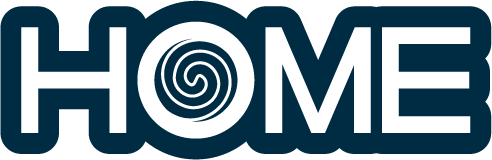
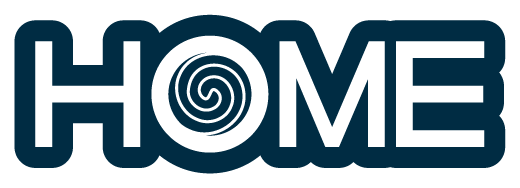
feat: 🌀 로고·HOME에 흰 키라인+글로우 — 어두운 헤더에서 밝게 뜬다

diff --git a/play/pastlife.html b/play/pastlife.html
@@ -8,7 +8,7 @@
   <link rel="preconnect" href="https://fonts.googleapis.com" />
   <link rel="preconnect" href="https://fonts.gstatic.com" crossorigin />
   <link href="https://fonts.googleapis.com/css2?family=Jua&display=swap" rel="stylesheet" />
-  <link rel="stylesheet" href="../css/style.css?v=cl5" />
+  <link rel="stylesheet" href="../css/style.css?v=cl6" />
   <style>
     .life-card { background: var(--surface); border: 2px solid var(--line); border-radius: 16px; padding: 16px 18px; margin-bottom: 14px; }
     .life-era { display: inline-block; background: var(--cream); border-radius: 999px; padding: 4px 12px; font-size: 0.82rem; color: var(--ink-soft); margin-bottom: 8px; }
@@ -74,7 +74,7 @@
     <p class="fine-print">업보는 셀프</p>
   </main>
   <div id="site-footer"></div>
-  <script src="../js/common.js?v=21" data-root=".."></script>
+  <script src="../js/common.js?v=22" data-root=".."></script>
   <script src="js/saju.js"></script>
   <script src="js/dosa.js?v=2"></script>
   <script src="js/feed.js?v=10"></script>

diff --git a/play/foodtype.html b/play/foodtype.html
@@ -8,7 +8,7 @@
   <link rel="preconnect" href="https://fonts.googleapis.com" />
   <link rel="preconnect" href="https://fonts.gstatic.com" crossorigin />
   <link href="https://fonts.googleapis.com/css2?family=Jua&display=swap" rel="stylesheet" />
-  <link rel="stylesheet" href="../css/style.css?v=cl5" />
+  <link rel="stylesheet" href="../css/style.css?v=cl6" />
   <style>
     .tags { display: flex; flex-wrap: wrap; gap: 8px; justify-content: center; margin: 14px 0 4px; }
     .tag { background: var(--cream); border: 1.5px solid var(--line); border-radius: 999px; padding: 5px 12px; font-size: 0.9rem; color: var(--ink-soft); }
@@ -21,7 +21,7 @@
     <section class="panel"><div id="quiz"></div></section>
   </main>
   <div id="site-footer"></div>
-  <script src="../js/common.js?v=21" data-root=".."></script>
+  <script src="../js/common.js?v=22" data-root=".."></script>
   <script src="js/feed.js?v=10"></script>
   <script src="js/quiz.js?v=4"></script>
   <script src="js/sharecard.js"></script>

diff --git a/play/love-test.html b/play/love-test.html
@@ -8,7 +8,7 @@
   <link rel="preconnect" href="https://fonts.googleapis.com" />
   <link rel="preconnect" href="https://fonts.gstatic.com" crossorigin />
   <link href="https://fonts.googleapis.com/css2?family=Jua&display=swap" rel="stylesheet" />
-  <link rel="stylesheet" href="../css/style.css?v=cl5" />
+  <link rel="stylesheet" href="../css/style.css?v=cl6" />
   <style>
     .tags { display: flex; flex-wrap: wrap; gap: 8px; justify-content: center; margin: 14px 0 4px; }
     .tag { background: var(--cream); border: 1.5px solid var(--line); border-radius: 999px; padding: 5px 12px; font-size: 0.9rem; color: var(--ink-soft); }
@@ -21,7 +21,7 @@
     <section class="panel"><div id="quiz"></div></section>
   </main>
   <div id="site-footer"></div>
-  <script src="../js/common.js?v=21" data-root=".."></script>
+  <script src="../js/common.js?v=22" data-root=".."></script>
   <script src="js/feed.js?v=10"></script>
   <script src="js/quiz.js?v=4"></script>
   <script src="js/sharecard.js"></script>

diff --git a/play/zombie.html b/play/zombie.html
@@ -8,7 +8,7 @@
   <link rel="preconnect" href="https://fonts.googleapis.com" />
   <link rel="preconnect" href="https://fonts.gstatic.com" crossorigin />
   <link href="https://fonts.googleapis.com/css2?family=Jua&display=swap" rel="stylesheet" />
-  <link rel="stylesheet" href="../css/style.css?v=cl5" />
+  <link rel="stylesheet" href="../css/style.css?v=cl6" />
   <style>
     .tags { display: flex; flex-wrap: wrap; gap: 8px; justify-content: center; margin: 14px 0 4px; }
     .tag { background: var(--cream); border: 1.5px solid var(--line); border-radius: 999px; padding: 5px 12px; font-size: 0.9rem; color: var(--ink-soft); }
@@ -21,7 +21,7 @@
     <section class="panel"><div id="quiz"></div></section>
   </main>
   <div id="site-footer"></div>
-  <script src="../js/common.js?v=21" data-root=".."></script>
+  <script src="../js/common.js?v=22" data-root=".."></script>
   <script src="js/feed.js?v=10"></script>
   <script src="js/quiz.js?v=4"></script>
   <script src="js/sharecard.js"></script>

diff --git a/play/chatroom.html b/play/chatroom.html
@@ -8,7 +8,7 @@
   <link rel="preconnect" href="https://fonts.googleapis.com" />
   <link rel="preconnect" href="https://fonts.gstatic.com" crossorigin />
   <link href="https://fonts.googleapis.com/css2?family=Jua&display=swap" rel="stylesheet" />
-  <link rel="stylesheet" href="../css/style.css?v=cl5" />
+  <link rel="stylesheet" href="../css/style.css?v=cl6" />
   <style>
     .tags { display: flex; flex-wrap: wrap; gap: 8px; justify-content: center; margin: 14px 0 4px; }
     .tag { background: var(--cream); border: 1.5px solid #e8e2d4; border-radius: 999px; padding: 5px 12px; font-size: 0.9rem; color: var(--ink-soft); }
@@ -21,7 +21,7 @@
     <section class="panel"><div id="quiz"></div></section>
   </main>
   <div id="site-footer"></div>
-  <script src="../js/common.js?v=21" data-root=".."></script>
+  <script src="../js/common.js?v=22" data-root=".."></script>
   <script src="js/feed.js?v=10"></script>
   <script src="js/quiz.js?v=4"></script>
   <script src="js/sharecard.js"></script>

diff --git a/play/profile-card.html b/play/profile-card.html
@@ -8,7 +8,7 @@
   <link rel="preconnect" href="https://fonts.googleapis.com" />
   <link rel="preconnect" href="https://fonts.gstatic.com" crossorigin />
   <link href="https://fonts.googleapis.com/css2?family=Jua&display=swap" rel="stylesheet" />
-  <link rel="stylesheet" href="../css/style.css?v=cl5" />
+  <link rel="stylesheet" href="../css/style.css?v=cl6" />
   <style>
     .nick-row { display: flex; gap: 8px; justify-content: center; margin-bottom: 14px; }
     .nick-row input { font-family: inherit; font-size: 1rem; padding: 9px 14px; border: 2px solid var(--line); border-radius: 12px; width: 200px; text-align: center; }
@@ -58,7 +58,7 @@
     <p class="fine-print">결과는 이 브라우저에만 저장돼요</p>
   </main>
   <div id="site-footer"></div>
-  <script src="../js/common.js?v=21" data-root=".."></script>
+  <script src="../js/common.js?v=22" data-root=".."></script>
   <script src="js/feed.js?v=10"></script>
   <script src="js/saju.js"></script>
   <script>

diff --git a/play/naming.html b/play/naming.html
@@ -8,7 +8,7 @@
   <link rel="preconnect" href="https://fonts.googleapis.com" />
   <link rel="preconnect" href="https://fonts.gstatic.com" crossorigin />
   <link href="https://fonts.googleapis.com/css2?family=Jua&display=swap" rel="stylesheet" />
-  <link rel="stylesheet" href="../css/style.css?v=cl5" />
+  <link rel="stylesheet" href="../css/style.css?v=cl6" />
   <style>
     .cat-grid { display: grid; grid-template-columns: 1fr 1fr; gap: 10px; margin-bottom: 14px; }
     .cat-tile { background: var(--cream); border: 2px solid transparent; border-radius: 14px;
@@ -43,7 +43,7 @@
     <p class="fine-print">이름은 참고용이에요 — 마음에 드는 걸 골라 쓰세요 🙂</p>
   </main>
   <div id="site-footer"></div>
-  <script src="../js/common.js?v=21" data-root=".."></script>
+  <script src="../js/common.js?v=22" data-root=".."></script>
   <script src="js/feed.js?v=10"></script>
   <script src="js/dosa.js?v=2"></script>
   <script>

diff --git a/play/mini.html b/play/mini.html
@@ -8,7 +8,7 @@
   <link rel="preconnect" href="https://fonts.googleapis.com" />
   <link rel="preconnect" href="https://fonts.gstatic.com" crossorigin />
   <link href="https://fonts.googleapis.com/css2?family=Jua&display=swap" rel="stylesheet" />
-  <link rel="stylesheet" href="../css/style.css?v=cl5" />
+  <link rel="stylesheet" href="../css/style.css?v=cl6" />
   <style>
     /* 남색 밤+황금 초승달+모래 땅 배경(홈과 가장 닮은 톤) — 뷰포트 고정 레이어 */
     body.clay { background: #1a2242 !important; }
@@ -161,7 +161,7 @@
     <p class="fine-print" style="margin-top:24px">가볍게 즐겨주세요 🙂</p>
   </main>
   <div id="site-footer"></div>
-  <script src="../js/common.js?v=21" data-root=".."></script>
+  <script src="../js/common.js?v=22" data-root=".."></script>
   <script src="js/hub-fan.js?v=2" data-root=".."></script>
   <script>
     // 행성 클릭 메뉴(홈과 동일) — 데스크톱 전용

diff --git a/play/goblub.html b/play/goblub.html
@@ -8,7 +8,7 @@
   <link rel="preconnect" href="https://fonts.googleapis.com" />
   <link rel="preconnect" href="https://fonts.gstatic.com" crossorigin />
   <link href="https://fonts.googleapis.com/css2?family=Jua&display=swap" rel="stylesheet" />
-  <link rel="stylesheet" href="../css/style.css?v=cl5" />
+  <link rel="stylesheet" href="../css/style.css?v=cl6" />
   <style>
     .pet { position: relative; text-align: center; margin: 6px 0 2px; transition: transform 0.25s; }
     .pet.nom { animation: nom 0.5s ease; }
@@ -88,7 +88,7 @@
     <p class="fine-print">고브럽은 이 브라우저에서 자라요 — 브라우저를 바꾸면 새 알을 만나게 됩니다 🥚</p>
   </main>
   <div id="site-footer"></div>
-  <script src="../js/common.js?v=21" data-root=".."></script>
+  <script src="../js/common.js?v=22" data-root=".."></script>
   <script src="js/feed.js?v=10"></script>
   <script src="js/goblub-art.js"></script>
   <script>

diff --git a/play/today.html b/play/today.html
@@ -8,7 +8,7 @@
   <link rel="preconnect" href="https://fonts.googleapis.com" />
   <link rel="preconnect" href="https://fonts.gstatic.com" crossorigin />
   <link href="https://fonts.googleapis.com/css2?family=Jua&family=Nanum+Myeongjo:wght@700;800&display=swap" rel="stylesheet" />
-  <link rel="stylesheet" href="../css/style.css?v=cl5" />
+  <link rel="stylesheet" href="../css/style.css?v=cl6" />
   <style>
     .profile-badge { display: flex; align-items: center; justify-content: space-between; gap: 10px; flex-wrap: wrap; }
     .profile-badge .who { font-size: 1.15rem; }
@@ -110,7 +110,7 @@
     <p class="fine-print" id="t-err"></p>
   </main>
   <div id="site-footer"></div>
-  <script src="../js/common.js?v=21" data-root=".."></script>
+  <script src="../js/common.js?v=22" data-root=".."></script>
   <script src="js/saju.js"></script>
   <script src="js/fortune.js"></script>
   <script src="js/profile.js"></script>

diff --git a/apps.html b/apps.html
@@ -8,7 +8,7 @@
   <link rel="preconnect" href="https://fonts.googleapis.com" />
   <link rel="preconnect" href="https://fonts.gstatic.com" crossorigin />
   <link href="https://fonts.googleapis.com/css2?family=Jua&display=swap" rel="stylesheet" />
-  <link rel="stylesheet" href="css/style.css?v=cl5" />
+  <link rel="stylesheet" href="css/style.css?v=cl6" />
   <style>
     /* 차콜 인디고+물의 행성+로즈핑크 땅 배경 — 뷰포트 고정 레이어 */
     body.clay { background: #1c2026 !important; }
@@ -173,7 +173,7 @@
 
   <div id="site-footer"></div>
   <script src="play/js/goblub-art.js"></script>
-  <script src="js/common.js?v=21" data-root="."></script>
+  <script src="js/common.js?v=22" data-root="."></script>
   <script src="play/js/hub-fan.js?v=2" data-root="."></script>
   <script>
     // 행성 클릭 메뉴(홈과 동일) — 데스크톱 전용. 앱 페이지에서는 홈/로그인으로

diff --git a/play/mini2.html b/play/mini2.html
@@ -8,7 +8,7 @@
   <link rel="preconnect" href="https://fonts.googleapis.com" />
   <link rel="preconnect" href="https://fonts.gstatic.com" crossorigin />
   <link href="https://fonts.googleapis.com/css2?family=Jua&display=swap" rel="stylesheet" />
-  <link rel="stylesheet" href="../css/style.css?v=cl5" />
+  <link rel="stylesheet" href="../css/style.css?v=cl6" />
   <style>
     /* 남색 밤+분홍 진주달+바다 배경 — 뷰포트 고정 레이어 */
     body.clay { background: #131c3e !important; }
@@ -145,7 +145,7 @@
     <p class="fine-print" style="margin-top:24px">가볍게 즐겨주세요 🙂</p>
   </main>
   <div id="site-footer"></div>
-  <script src="../js/common.js?v=21" data-root=".."></script>
+  <script src="../js/common.js?v=22" data-root=".."></script>
   <script src="js/hub-fan.js?v=2" data-root=".."></script>
   <script>
     // 행성 클릭 메뉴(홈과 동일) — 데스크톱 전용
